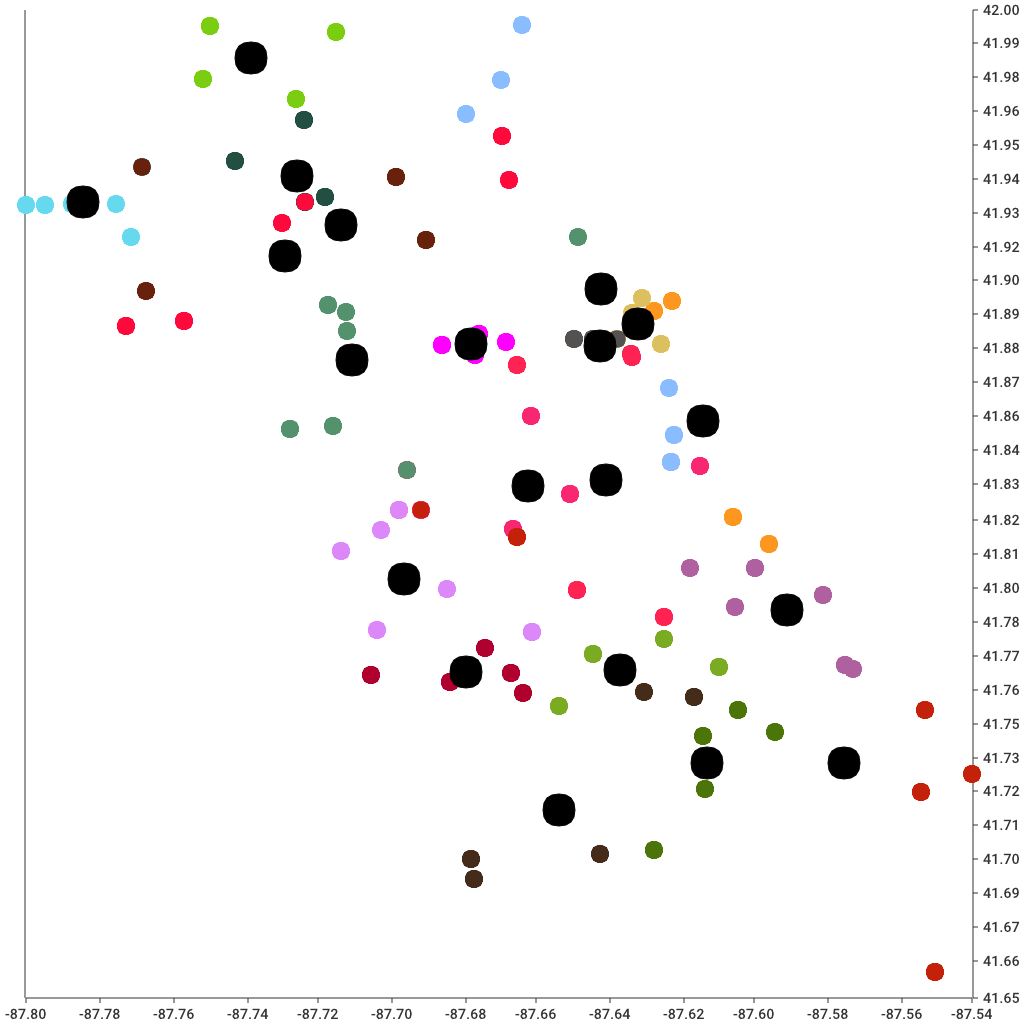
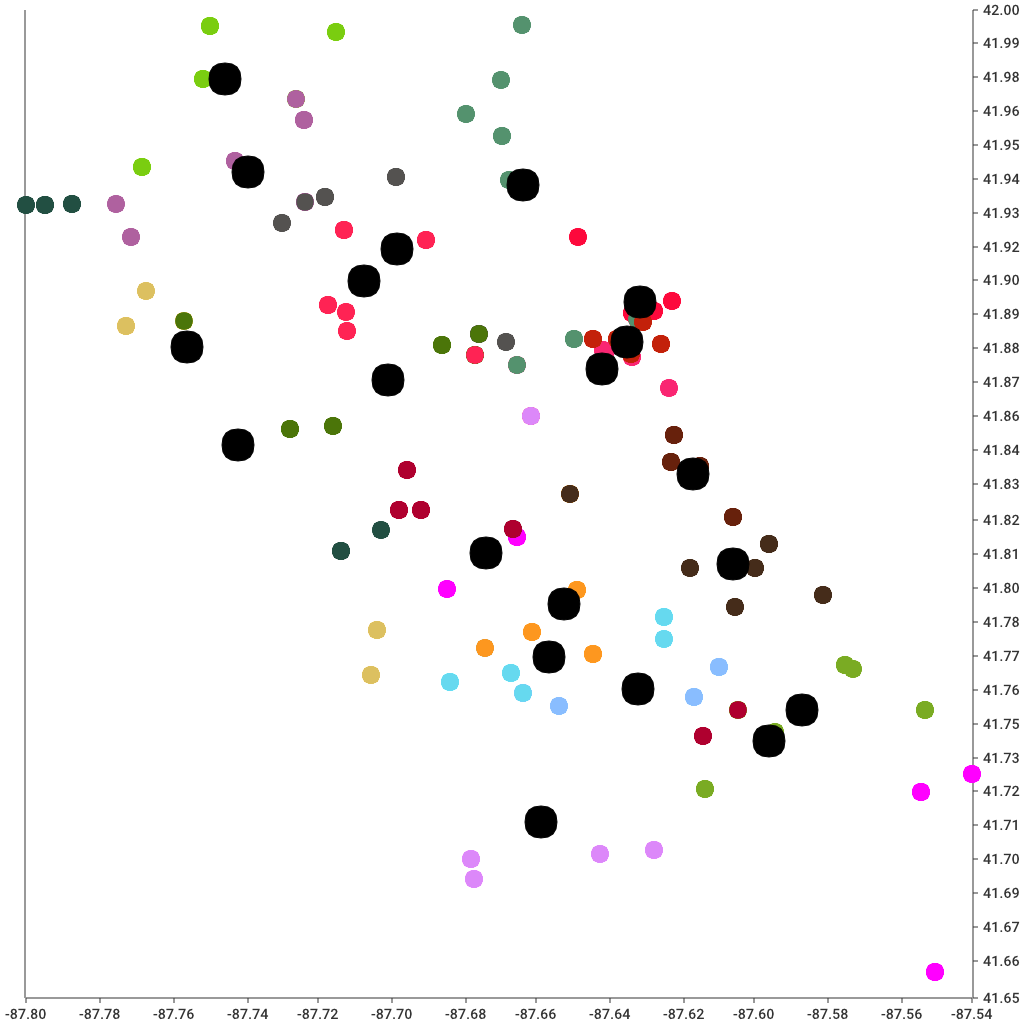
update

diff --git a/borderadjust.go b/borderadjust.go
@@ -19,12 +19,14 @@ func (c Clusters) borderadjust(A int, B int) (Observations, []diffsort) {
 	var diffA []diffsort
 	var obsA Observations
 	var obsB Observations
+	// var ci int
 	for _, p := range c[A].Observations {
 		distA := p.Distance(c[A].Center)
-
 		distB := p.Distance(c[B].Center)
 		//  Calculate diff(p, B) based on (2);
 		diff = append(diff, diffsort{distB - distA, p})
+		// ci = c.Nearest(p)
+		// fmt.Println(A, B, "then", ci)
 	}
 	//  Sort all the diff(p, B) ascending;
 	sort.SliceStable(diff, func(i, j int) bool {
@@ -32,7 +34,7 @@ func (c Clusters) borderadjust(A int, B int) (Observations, []diffsort) {
 	})
 	//  Move the first m point in area A based on sorted
 	// diff(p, B) to area B;
-	n := rand.Intn(103-100) + 100
+	n := rand.Intn(103-101) + 101
 	if len(c[A].Observations) > len(c[B].Observations) && len(c[A].Observations) > n {
 		m := len(c[A].Observations) - n
 		for i := 0; i < m; i++ {

diff --git a/cluster.go b/cluster.go
@@ -63,24 +63,6 @@ func (c Clusters) Nearest(point Observation) int {
 	return ci
 }
 
-//if nearest full
-func (c Clusters) NearestToo(point Observation) int {
-	var ci int
-	dist := -1.0
-
-	// Find the nearest cluster for this data point. use neighbour
-	for i, _ := range c {
-		_, d := c.Neighbour(point, i)
-		if dist < 0 || d < dist {
-			dist = d
-			ci = i
-		}
-
-	}
-
-	return ci
-}
-
 // Neighbour returns the neighbouring cluster of a point along with the average distance to its points
 func (c Clusters) Neighbour(point Observation, fromCluster int) (int, float64) {
 	var d float64
